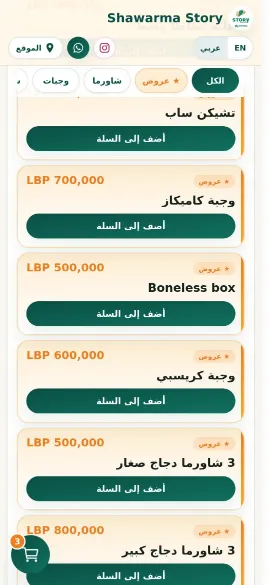
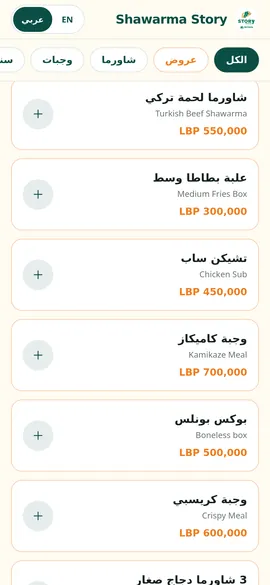
Update Shawarma Story screenshots and add admin demo link
Replace the six Shawarma Story images with screenshots of the redesigned live menu (English, Arabic, cart), add an Admin demo link, and update the highlights.

diff --git a/src/data/projects.ts b/src/data/projects.ts
@@ -117,6 +117,7 @@ export const projects: Project[] = [
     links: [
       { label: "Live site", href: "https://shawarmastory.com", kind: "live" },
       { label: "GitHub", href: "https://github.com/SF-47/restaurant-qr-menu", kind: "repo" },
+      { label: "Admin demo", href: "https://shawarmastory.com/admin-demo", kind: "demo" },
     ],
     details: {
       summary:
@@ -125,7 +126,7 @@ export const projects: Project[] = [
         "Public menu and protected admin panel in one React + Vite app.",
         "Saved cart with quantities, notes and an itemized WhatsApp message.",
         "Firestore with locked-down write rules, Firebase Auth for staff, Firebase Hosting on a custom domain.",
-        "23 reusable components.",
+        "Public admin demo on sample data, with validation that catches names typed in the wrong language and prices entered in thousands.",
       ],
       fullStack: ["React", "Vite", "JavaScript", "Tailwind CSS", "Firebase Firestore", "Firebase Auth", "Firebase Hosting"],
       facts: [
